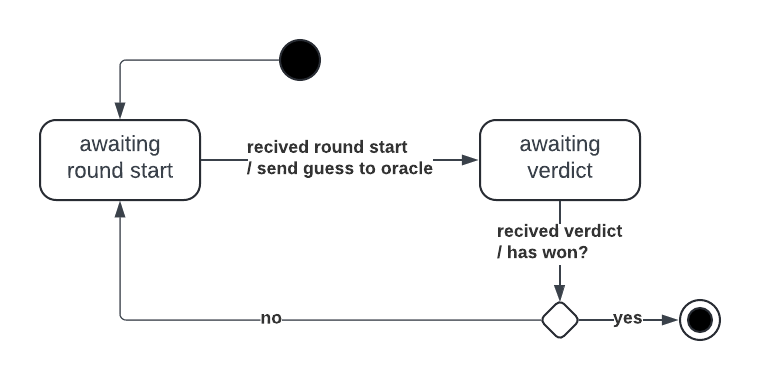
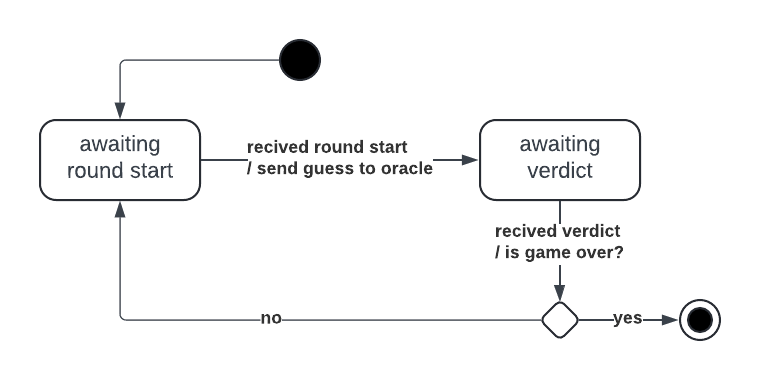
completed oracle.go and oracle states, started working on player states and player.go, updated report

Changed region(s): [[0.6355, 0.5789, 0.8171, 0.6947]]

diff --git a/Assignment-03/part3/src/oracle.go b/Assignment-03/part3/src/oracle.go
@@ -3,66 +3,114 @@ package main
 import (
     "fmt"
     "strings"
+    "strconv"
+    "math/rand"
 )
 
-func Oracle(done chan bool, oracleChannel chan string, playerChannels []chan string, maxValueForExtractedNumber int) {
-    // initializing variable to check when game is over
-    gameOver := flase
+func Oracle(done chan bool, oracleChannel chan string, playerChannels []chan string, maxValueForSecretNumber int) {
+
+    log("starting oracle")
+
+    // generating secret number
+    secretNumber := generateSecretNumber(maxValueForSecretNumber)
+
+    // setting initial state
+    currentState := roundStart
+
+    //this variable is necessary to keep track of how many players have already attempted a guess this round
+    playersDone := 0
+
+    //saving the number of players
+    nPlayers := len(playerChannels)
 
     //initializing game loop
     for {
+        switch currentState {
 
-        playersDone := 0
+        case roundStart:
+            //notifing players that a new round is started
+            notifyPlayers(playerChannels)
 
-        //notifing players that a new round is started
-        notifyPlayers(playerChannels)
+            currentState = awaitingPlayerGuess
 
-        //processing players guesses until all players guesses have been processed
-        for playersDone != len(playerChannels) {
+        case awaitingPlayerGuess:
 
-            gameOver = processMessage(oracleChannel, playerChannels)
+            log("awaiting player guess")
 
+            //processing the message
+            senderId, playerGuess := processMessage(oracleChannel)
+
+            log(fmt.Sprintf("guess of value %d received from player %d", playerGuess, senderId))
+
+            //keeping track of how many players have attempted to guess
             playersDone++
 
-            //ending the round if the game is over
-            if !gameOver {
-                break
+            //ending the game if the player guessed correctly
+            //otherwise giving the hint
+            if playerGuess == secretNumber {
+
+                log(fmt.Sprintf("player %d guessed the secret number!", senderId))
+
+                notifyGameOver(senderId, playerChannels)
+
+                currentState = gameEnd
+            } else {
+
+                log(fmt.Sprintf("player %d guessed wrong, sending hint", senderId))
+                
+                //retrieving the sender channel
+                senderIndex := senderId - 1
+                playerChannel := playerChannels[senderIndex]
+
+                giveHint(playerChannel, playerGuess, secretNumber)
+
+                currentState = playerGivenHint
             }
 
+        case playerGivenHint:
+
+            //if the round is over, starting a new round
+            //otherwise await more player guesses
+            if playersDone == nPlayers {
+                currentState = roundStart
+            } else {
+                currentState = awaitingPlayerGuess
+            }
+
+        case gameEnd:
+
+            log("game over, shutting down")
+
+            //comunicating to main that oracle is done
+            done <- true
+
+            //shutting down the oracle go routine
+            return
+
         }
 
-        //ending game loop if the game is over
-        if !gameOver {
-            break
-        }
     }
 
-    //comunicating to main that oracle is done
-    done <- true
 }
 
 func notifyPlayers(playerChannels []chan string) {
+    log("notifing players that new round is starting")
+
     for i := range playerChannels {
-        playerChannels[i] <- fmt.Sprintf("roundStart")
+        playerChannels[i] <- "roundStart"
     }
 }
 
-func processMessage(oracleChannel chan string, playerChannels []chan string, secretNumber int) bool {
+func processMessage(oracleChannel chan string) (int, int) {
     //receiving the message
     msg := <-oracleChannel
 
     //preprocesing the message
-    splitMessage := strings.Split(str, " ")
-    playerNumber := strconv.Atoi(splitMessage[0])
-    playerGuess := strconv.Atoi(splitMessage[2])
+    splitMessage := strings.Split(msg, " ")
+    playerNumber, _ := strconv.Atoi(splitMessage[0])
+    playerGuess, _ := strconv.Atoi(splitMessage[2])
 
-    if playerGuess == secretNumber {
-        notifyGameOver(playerNumber, playerChannels)
-        return true
-    } else {
-        notifyWrongAnswer(secretNumber, playerGuess, playerChannels[playerNumber - 1])
-        return false
-    }
+    return playerNumber, playerGuess
 }
 
 func notifyGameOver(winningPlayerNumber int, playerChannels []chan string){
@@ -70,11 +118,26 @@ func notifyGameOver(winningPlayerNumber int, playerChannels []chan string){
 
     for i := range playerChannels {
         if i == winningPlayerIndex {
-            playerChannels[i] <- fmt.Sprintf("gameOver : winner")
+            playerChannels[i] <- "gameOver : winner"
         } else {
-            playerChannels[i] <- fmt.Sprintf("gameOver : loser")
+            playerChannels[i] <- "gameOver : loser"
         }
     }
+}
+
+func giveHint(playerChannel chan string, playerGuess int, secretNumber int) {
+    if secretNumber < playerGuess {
+        playerChannel <- "wrong : lower"
+    } else {
+        playerChannel <- "wrong : higher"
+    }
+}
+
+func generateSecretNumber(max int) int {
+    // Generate a random number between 0 and max (inclusive)
+    randomNumber := rand.Intn(max + 1)
+
+    return randomNumber
 }
 
 func log(message string) {

diff --git a/Assignment-03/part3/doc/report/main.tex b/Assignment-03/part3/doc/report/main.tex
@@ -77,12 +77,14 @@ The oracle and the players will communicate by sending messages. The beheviour o
     \centering
     \includegraphics{oracleSD.png}
     \caption{state diagram of the oracle}
+    \label{fig:oracleSD}
 \end{figure}
 
 \begin{figure}
     \centering
     \includegraphics{playerSD.png}
     \caption{state diagram of a player}
+    \label{fig:playerSD}
 \end{figure}
 
 \section{Communication organization}
@@ -100,7 +102,7 @@ Although using multiple channels involves a bigger overhead and reasource consum
 The channels are treated as one way communication channels, where the entity the channel is associated to (oracle or player) is listening on the channel for messages.
  This means that if an entity wishes to communicate to a given other entity it can send messages on that entity's associated channel.
 
-Since the players do not need to communicate with each other they do not need to have access to other player's channels, improving incapsulation //TODO CONTROLLARE COSA DIRE PER BENE QUI
+Since the players do not need to communicate with each other they have no need to have access to other player's channels, improving incapsulation //TODO CONTROLLARE COSA DIRE PER BENE QUI
 \chapter{Implementation}
 The oracle and players threads are implemented as goroutines. The goroutines communicate via channels.
 
@@ -110,6 +112,14 @@ The oracle go routine function is defined in the oracle.go file. The players go 
 
 As defined in the Design chapter all the go routines have a single channel accosiated with them and each go routine listens only on their channel for messages from
  other go routines. This means that there are N + 1 channels, where N is the number of players.
+
+The go routine functions for the oracle and the players where both implemented with a switch-case controll structure, highlighting the states
+ rappresented in \ref{fig:oracleSD} and \ref{fig:playerSD}
+
+This implementation takes into account an edge case where the oracle notifies the players that the game is over while a player has still not sent it's guess
+ for the current round. Since the player considered would start listening to the it's channel after sending the message, it could send a possible guess
+ before acknowledging that the game is over. Although this does not violate the requirements, it should be acknowledged that the player's go routines
+ could terminate after the oracle routine and after the actual end of the game.
 
 \section{Communication protocol}
 Given the simple abstraction of channels a communication protocol must by defined. All the channels transport string type messages.
@@ -132,21 +142,29 @@ Where \verb|<hint>| is the hint from the oracle and can assume the value of \ver
 \chapter{Usage}
 The program can be run from the command line using the command:
 \begin{lstlisting}
-    $ go run main.go oracle.go player.go
+    $ go run main.go oracle.go player.go oracleStates.go playerStates.go
 \end{lstlisting}
 The user will then be prompted to input the number of players and the max value for the number to be guessed.
 
 The program can also be given the input values through cli arguments:
 \begin{lstlisting}
-    $ go run main.go oracle.go player.go <nPlayers> <maxValue>
+    $ go run main.go oracle.go player.go oracleStates.go playerStates.go <nPlayers> <maxValue>
 \end{lstlisting}
 Where \verb|<nPlayers>| is the number of players.
 
 Where \verb|<maxValue>| is the max value for the number to be guessed.
 
+The program can also be run using either methods by running the given bash script:
+\begin{lstlisting}
+    $ ./runGame
+\end{lstlisting}
+\begin{lstlisting}
+    $ ./runGame <nPlayers> <maxValue>
+\end{lstlisting}
+
 \chapter{Conclusions}
 The go routine and channel constructs of the go language give supply an easy to use architecture for message oriented concurrency. Aided by the efficent Implementation
- of the go language, these simple yet powerfull abstractions allow to easaly define complex beheviours in an intuitive and readable manner.
+ of the go language, these simple yet powerfull abstractions allow to easily define complex beheviours in an intuitive and readable manner.
 
 \bibliographystyle{plain}
 \bibliography{References}

diff --git a/Assignment-03/part3/src/main.go b/Assignment-03/part3/src/main.go
@@ -54,9 +54,11 @@ func main() {
     for i := range playerChannels {
         playerChannels[i] = make(chan string)
     }
+
+    //TODO CREATE GO ROUTINES FOR THE PLAYERS
 	
 	//starting the oracle goroutine
-	go Oracle(done, oracleChannel, playerChannels)
+	go Oracle(done, oracleChannel, playerChannels, maxValueForExtractedNumber)
 
 	//wait for oracle routine to finish
 	<-done

diff --git a/Assignment-03/part3/src/oracleStates.go b/Assignment-03/part3/src/oracleStates.go
@@ -1,0 +1,13 @@
+// this file is the equivalent of an enum in go. It defines the oracle states
+package main
+
+// Define a custom type for the oracle states
+type OracleState int
+
+// Define the oracle states
+const (
+	roundStart OracleState = iota
+	awaitingPlayerGuess
+	playerGivenHint
+	gameEnd
+)

diff --git a/Assignment-03/part3/src/playerStates.go b/Assignment-03/part3/src/playerStates.go
@@ -1,0 +1,11 @@
+// this file is the equivalent of an enum in go. It defines the player states
+package main
+
+// Define a custom type for the player states
+type PlayerState int
+
+// Define the player states
+const (
+	awatingRoundStart PlayerState = iota
+	awaitingVerdict
+)

diff --git a/Assignment-03/part3/src/player.go b/Assignment-03/part3/src/player.go
@@ -1,0 +1,11 @@
+package main
+
+import (
+    "fmt"
+    "strings"
+    "strconv"
+)
+
+func Player(playerChannel chan string, oracleChannel chan string, maxValueForSecretNumber int) {
+
+}
